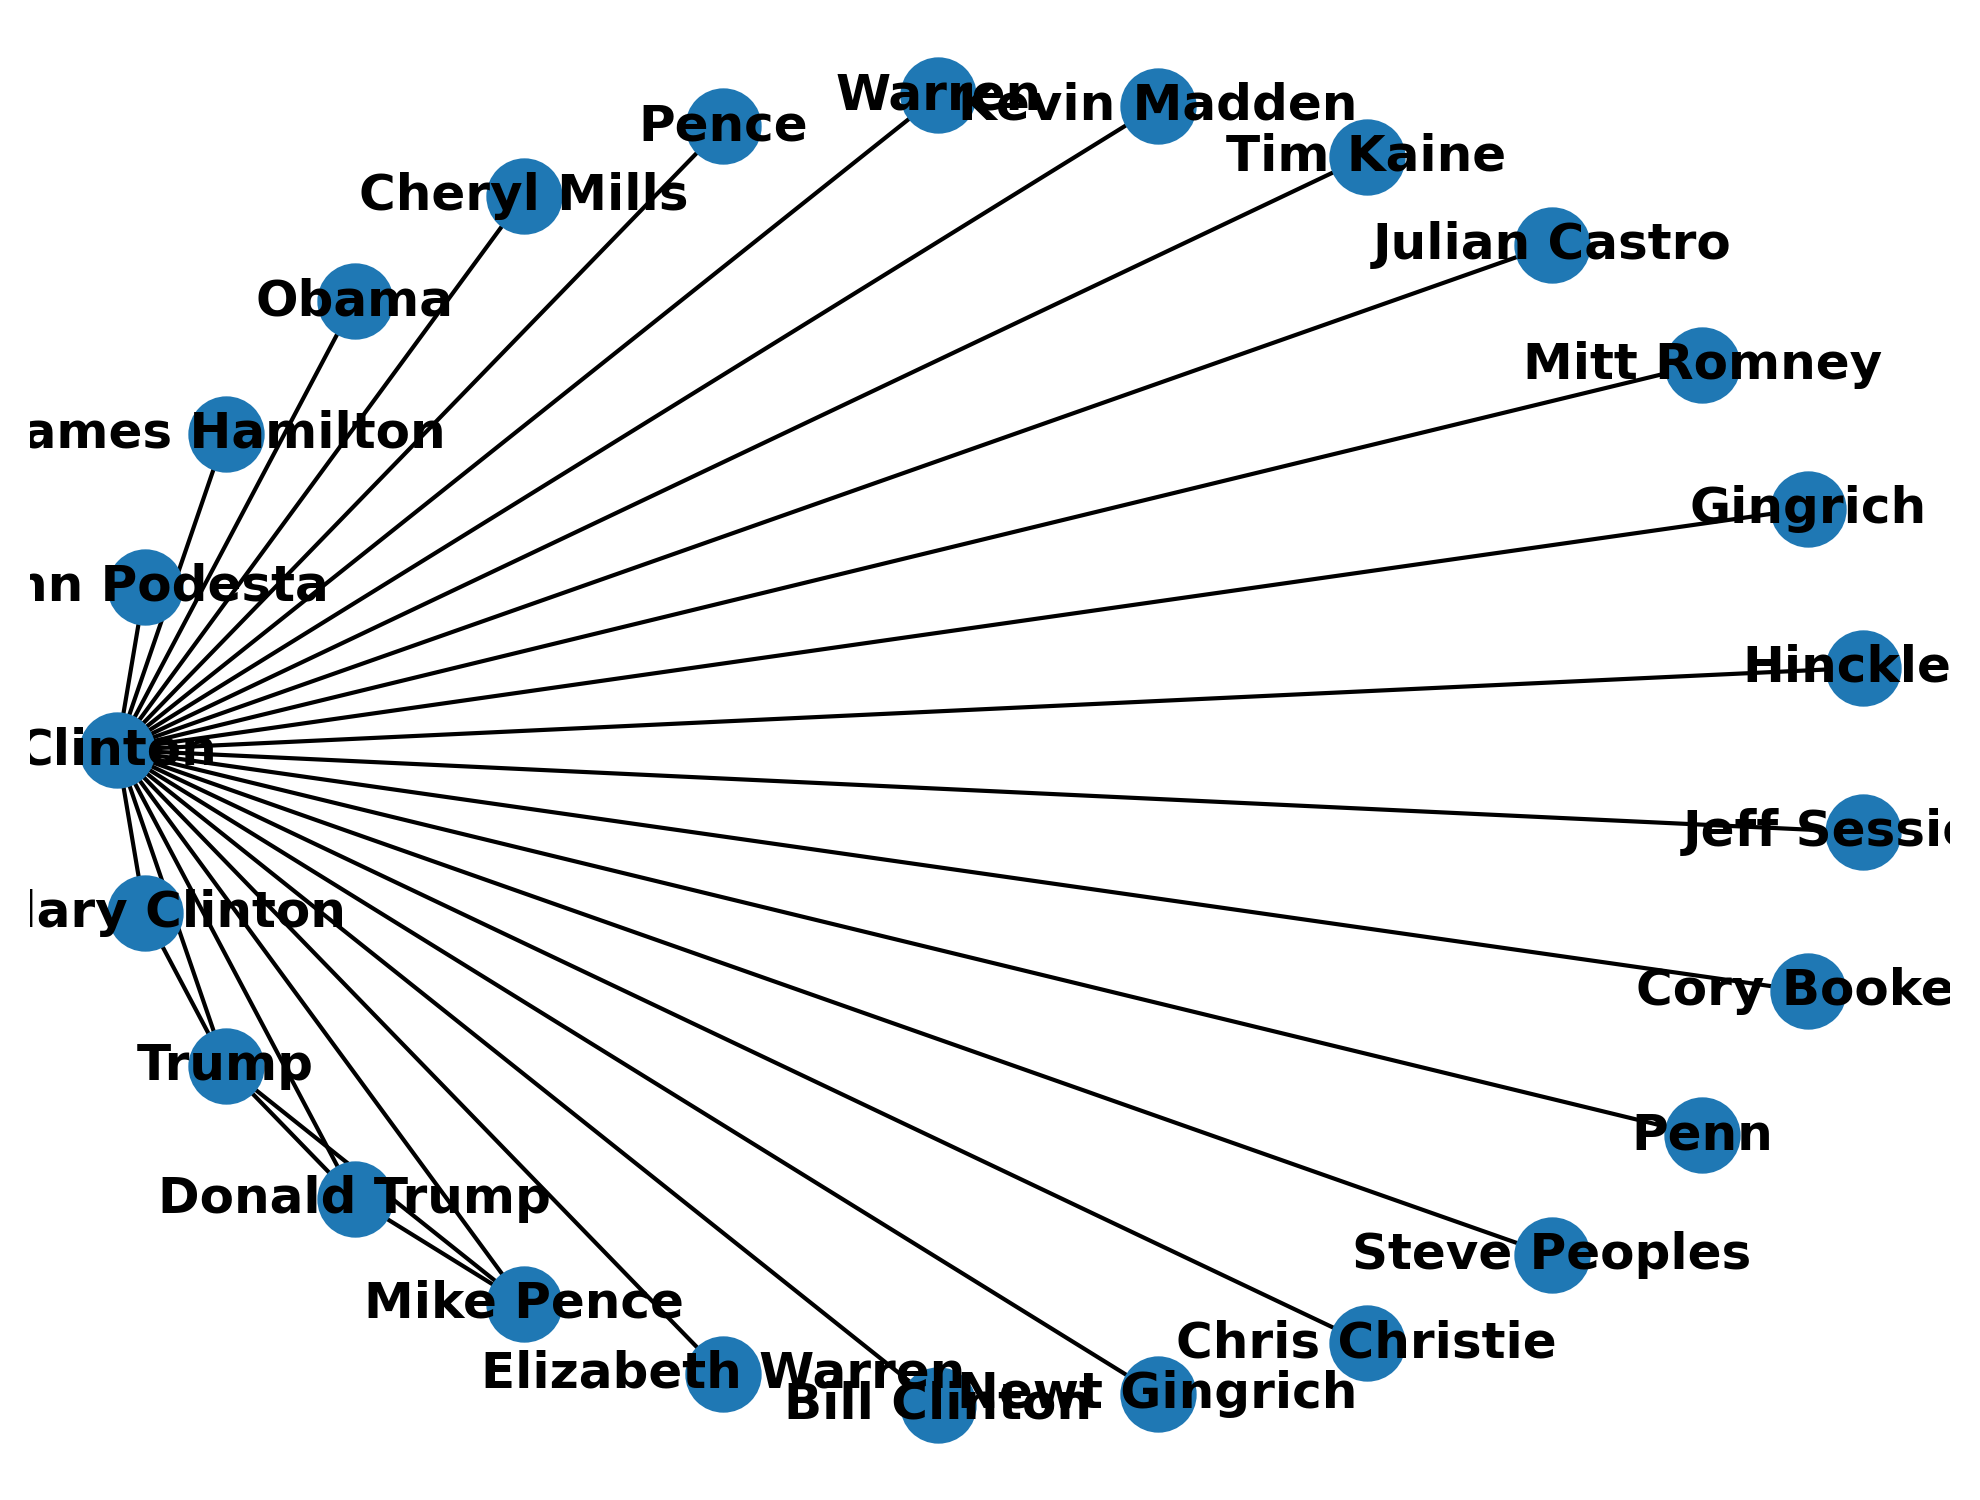
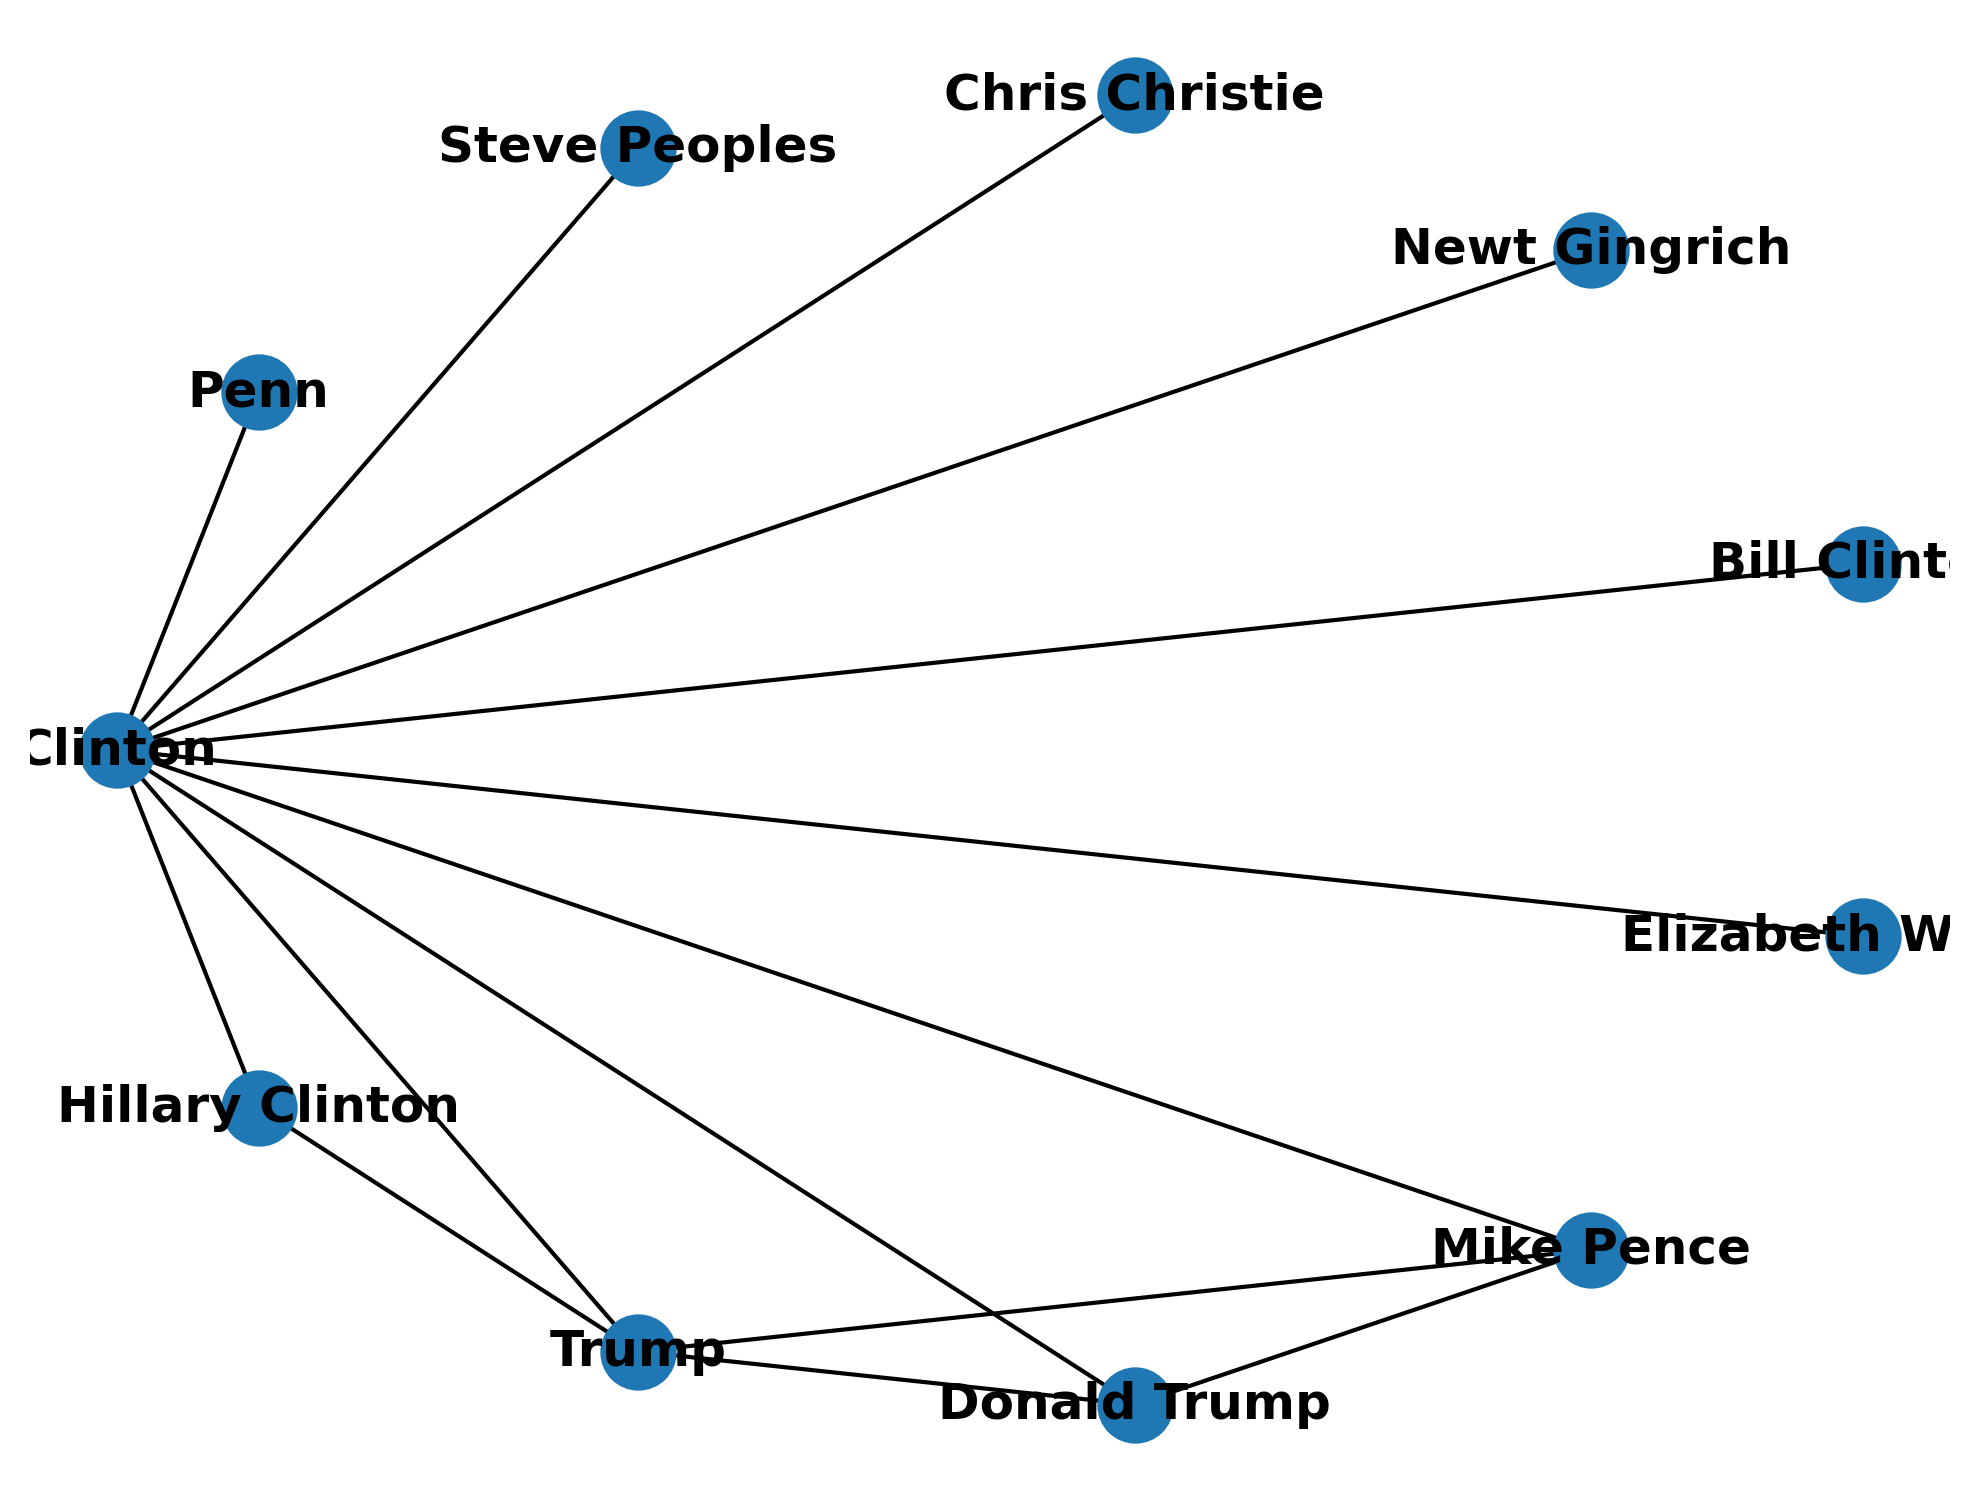
additional changes

diff --git a/assignment_5/topic_modeling_philosophy.py b/assignment_5/topic_modeling_philosophy.py
@@ -148,14 +148,14 @@ def main(inpath, subset):
 
     # Build bigram and trigram models
     print(f"[INFO] Building bigram and trigram models (preparing for LDA) ...") # Info for terminal
-    bigram = gensim.models.Phrases(df["sentence_lowered"], min_count=5, threshold=100) # Higher threshold means fewer phrases
-    trigram = gensim.models.Phrases(bigram[df["sentence_lowered"]], min_count = 1, threshold=100)
+    bigram = gensim.models.Phrases(df["sentence_lowered"], min_count = 5, threshold = 100) # Higher threshold means fewer phrases
+    trigram = gensim.models.Phrases(bigram[df["sentence_lowered"]], min_count = 1, threshold = 100)
     bigram_mod = gensim.models.phrases.Phraser(bigram)
     trigram_mod = gensim.models.phrases.Phraser(trigram)
 
     # Acquire a list of lists. Each of these lists contain all unique words that have one of the postags: 'NOUN', "ADJ", "VERB", "ADV"
     texts_processed = lda_utils.process_words(df["sentence_lowered"], nlp, bigram_mod, trigram_mod,
-                                             allowed_postags=['NOUN']) # Only consider certain postags.
+                                             allowed_postags = ['NOUN']) # Only consider certain postags.
 
     # Create dictionary (converting each word into an integer value, which functions like an ID)
     id2word = corpora.Dictionary(texts_processed)
@@ -165,23 +165,23 @@ def main(inpath, subset):
 
     # Build an LDA model
     print(f"[INFO] Creating LDA model ...") # Info for terminal
-    lda_model = gensim.models.ldamodel.LdaModel(corpus=corpus,
-                                           id2word=id2word,
-                                           num_topics= 5, 
-                                           random_state=100,
-                                           chunksize=10,
-                                           passes=10,
-                                           iterations=100,
-                                           per_word_topics=True, 
-                                           minimum_probability=0.0)
+    lda_model = gensim.models.ldamodel.LdaModel(corpus = corpus,
+                                           id2word = id2word,
+                                           num_topics = 5, 
+                                           random_state = 100,
+                                           chunksize = 10,
+                                           passes = 10,
+                                           iterations = 100,
+                                           per_word_topics = True, 
+                                           minimum_probability = 0.0)
 
     # Getting LDA performance and printing
     print_lda_performance(lda_model, corpus, texts_processed, id2word)
 
     # Create data frame with information topic keywords and which entries have which dominant topic.
-    df_topic_keywords = lda_utils.format_topics_sentences(ldamodel=lda_model, 
-                                                          corpus=corpus, 
-                                                          texts=texts_processed)
+    df_topic_keywords = lda_utils.format_topics_sentences(ldamodel = lda_model, 
+                                                          corpus = corpus, 
+                                                          texts = texts_processed)
 
     # Merge topic dataframe with the philosophical entries
     df_topic_keywords = df.reset_index(drop = True).join(df_topic_keywords)

diff --git a/assignment_4/network.py b/assignment_4/network.py
@@ -82,7 +82,7 @@ if __name__=="__main__":
         "-n",
         "--n", 
         type = int,
-        default = 30, # Default when not specifying anything in the terminal
+        default = 15, # Default when not specifying anything in the terminal
         required = False, # Since we have a default value, it is not required to specify this argument
         help = "int specifying number of node + edge pairs wanted in the analysis (top n weighted pairs)")
     args = parser.parse_args()
